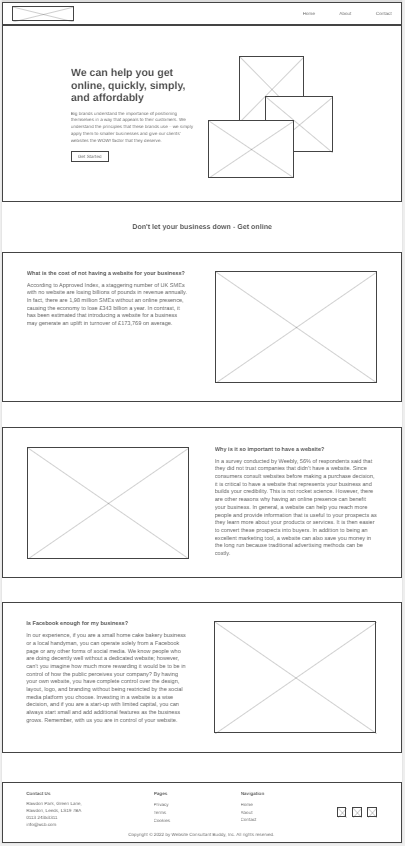
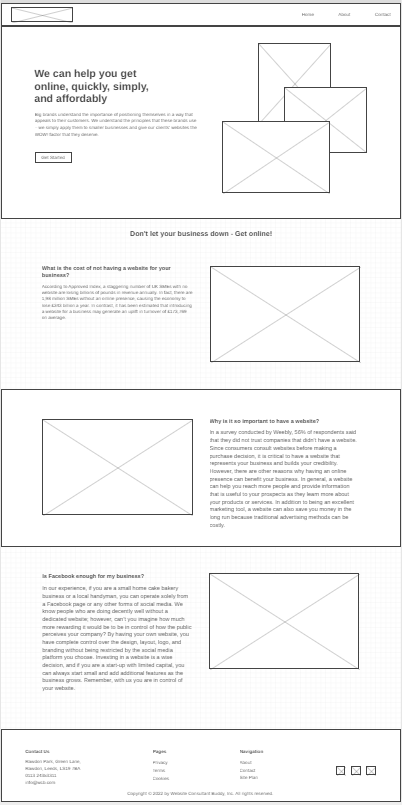
Edited home Wireframe and style.css

diff --git a/wcb/index.html b/wcb/index.html
@@ -59,7 +59,7 @@
         </div>
       </section>
 
-      <section class="section-z-pattern">
+      <section class="section1-z-pattern">
         <div class="container grid grid--2-cols">
           <div class="info-text-box">
             <h3 class="heading-tertiary">
@@ -77,7 +77,11 @@
           <div class="info-img-box">
             <img src="images/stats.jpg" class="info-img" alt="statistics" />
           </div>
+        </div>
+      </section>
 
+      <section class="section2-z-pattern">
+        <div class="container grid grid--2-cols">
           <div class="info-img-box">
             <img
               src="images/online_shopping.jpg"
@@ -104,7 +108,11 @@
               long run because traditional advertising methods can be costly.
             </p>
           </div>
+        </div>
+      </section>
 
+      <section class="section3-z-pattern">
+        <div class="container grid grid--2-cols">
           <div class="info-text-box">
             <h3 class="heading-tertiary">
               Is Facebook enough for my business?
@@ -141,7 +149,8 @@
           <p class="footer-heading">Contact us</p>
           <address class="contacts">
             <p class="address">
-              Rawdon Park, Green Lane, Rawdon, Leeds, LS19 7BA
+              Rawdon Park, Green Lane,<br />
+              Rawdon, Leeds, LS19 7BA
             </p>
             <p>
               <a class="footer-link" href="tel:0113 24353311">0113 24353311</a

diff --git a/wcb/styles/style.css b/wcb/styles/style.css
@@ -173,10 +173,23 @@ body {
 }
 
 /*************************/
-/* SECTION HOW */
+/* SECTION INFO */
 /*************************/
-.section-z-pattern {
+.section1-z-pattern,
+.section2-z-pattern {
+  padding: 9.6rem 0;
+}
+
+/* .section2-z-pattern {
+  padding: 3rem 0;
+} */
+
+.section3-z-pattern {
   padding: 9.6rem 0 12.8rem 0;
+}
+
+.section2-z-pattern {
+  background-color: #e3fafc;
 }
 
 .info-img {
